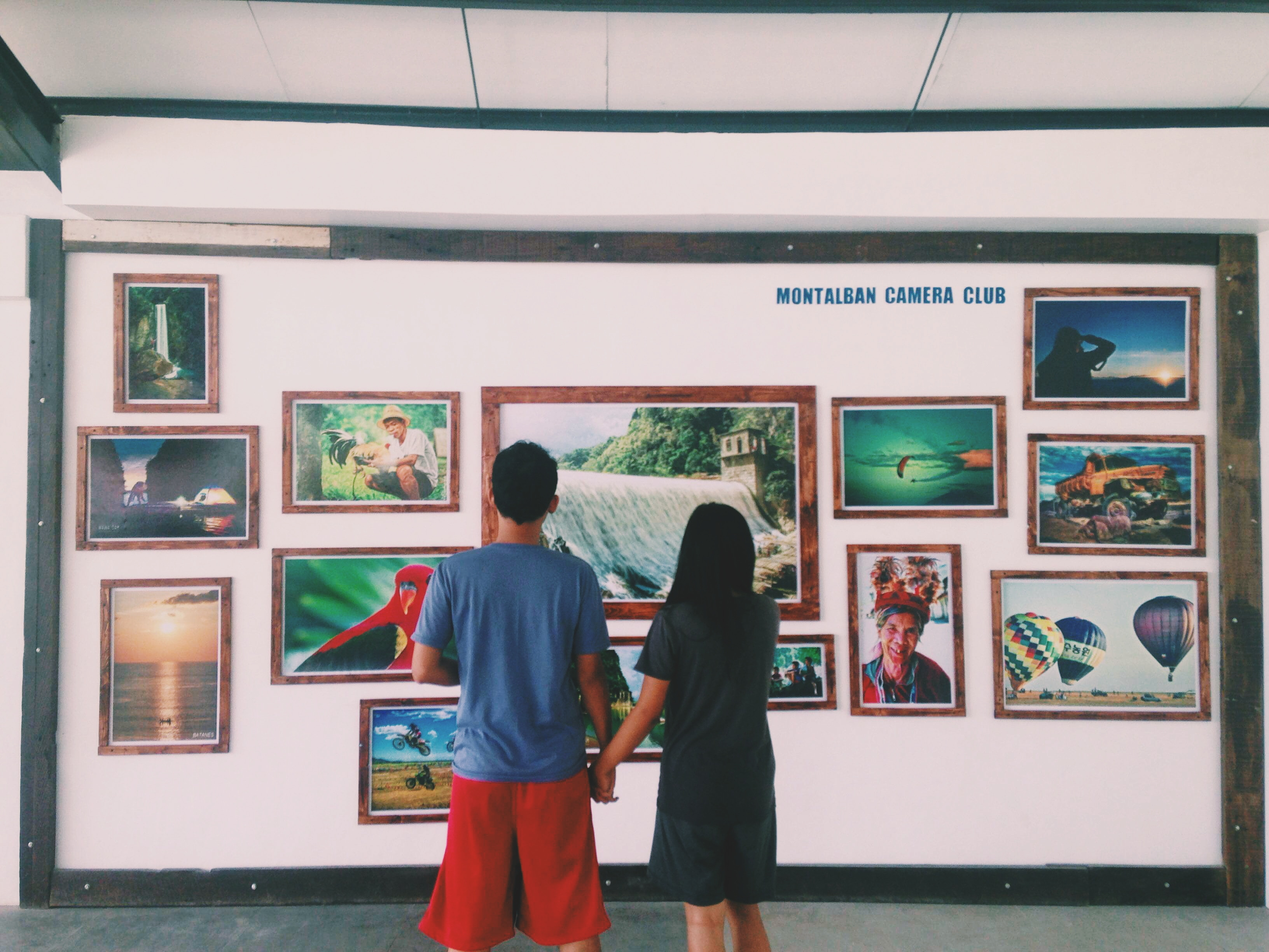
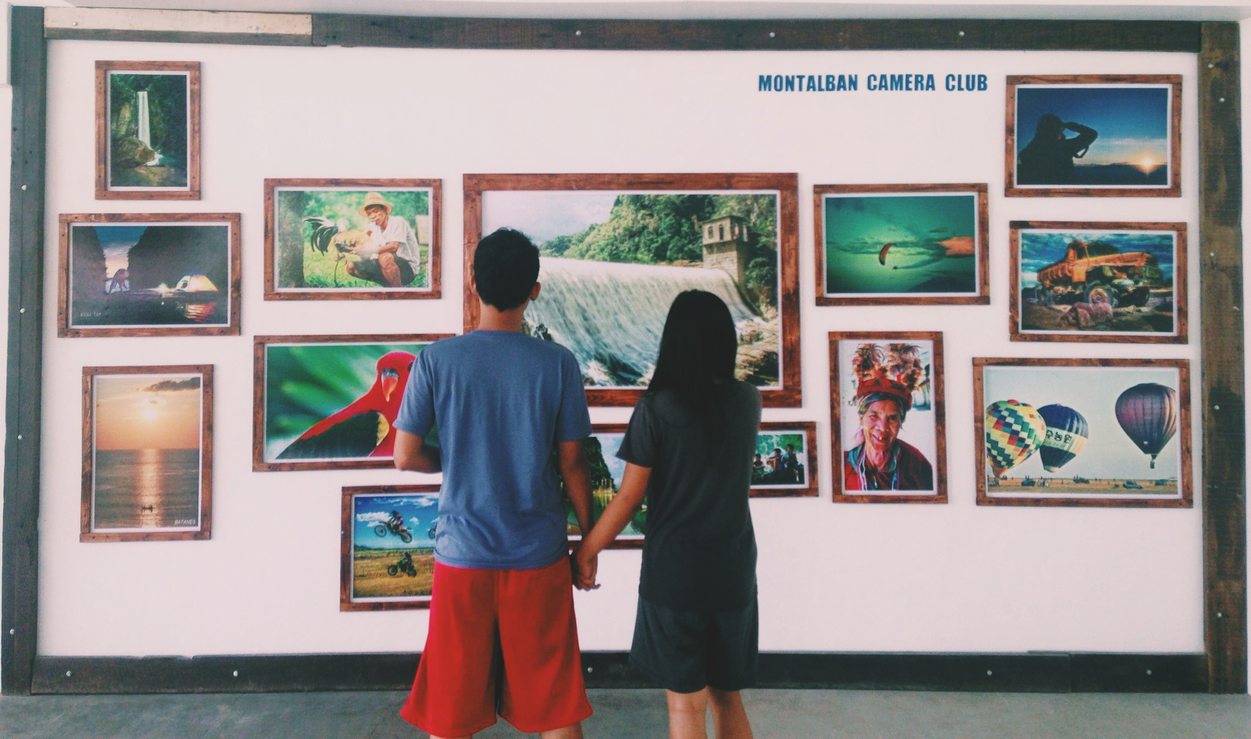
header pic

diff --git a/assets/css/main.css b/assets/css/main.css
@@ -2917,7 +2917,7 @@
 
 	#banner {
 		padding: 8em 0 9em 0;
-		background-image: url(../../images/banner.jpg);
+		background-image: url(../../images/images/header_pic.jpg);
 		background-size: cover;
 		background-position: bottom;
 		background-attachment: fixed;
